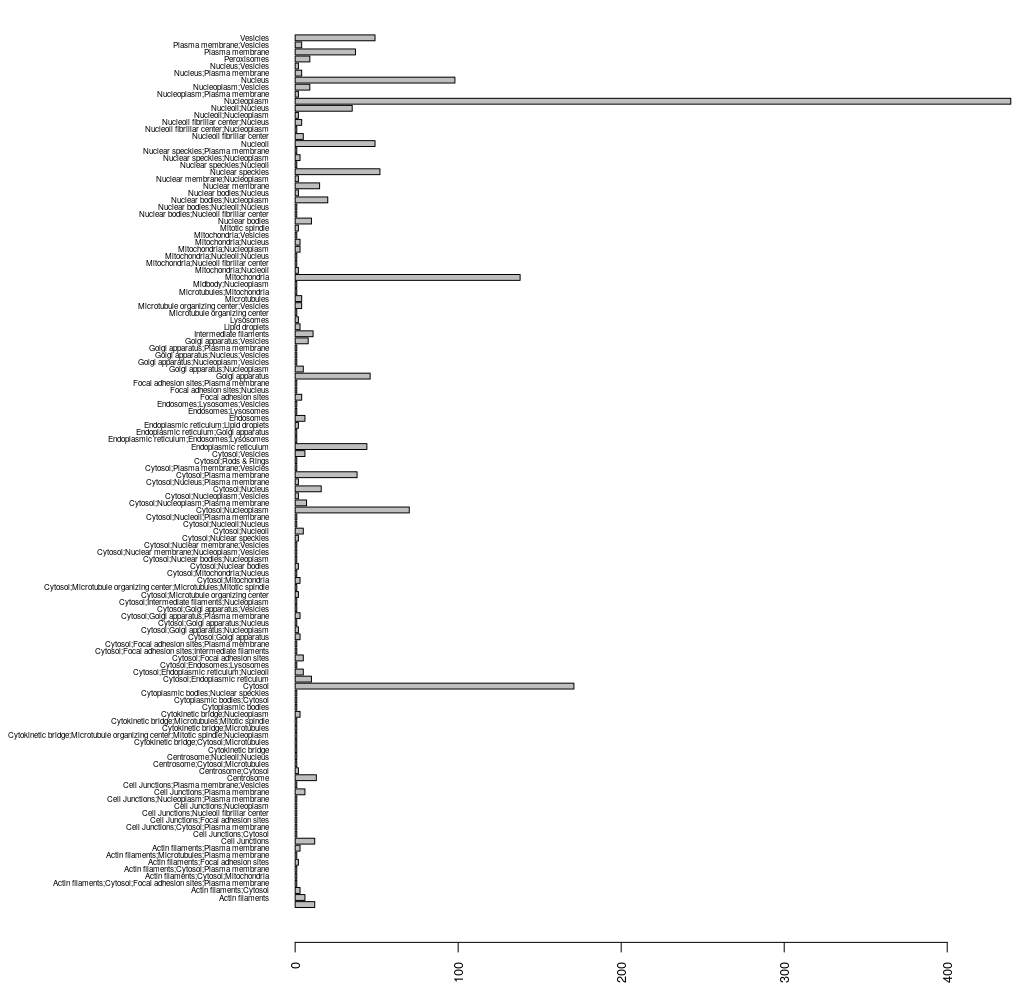
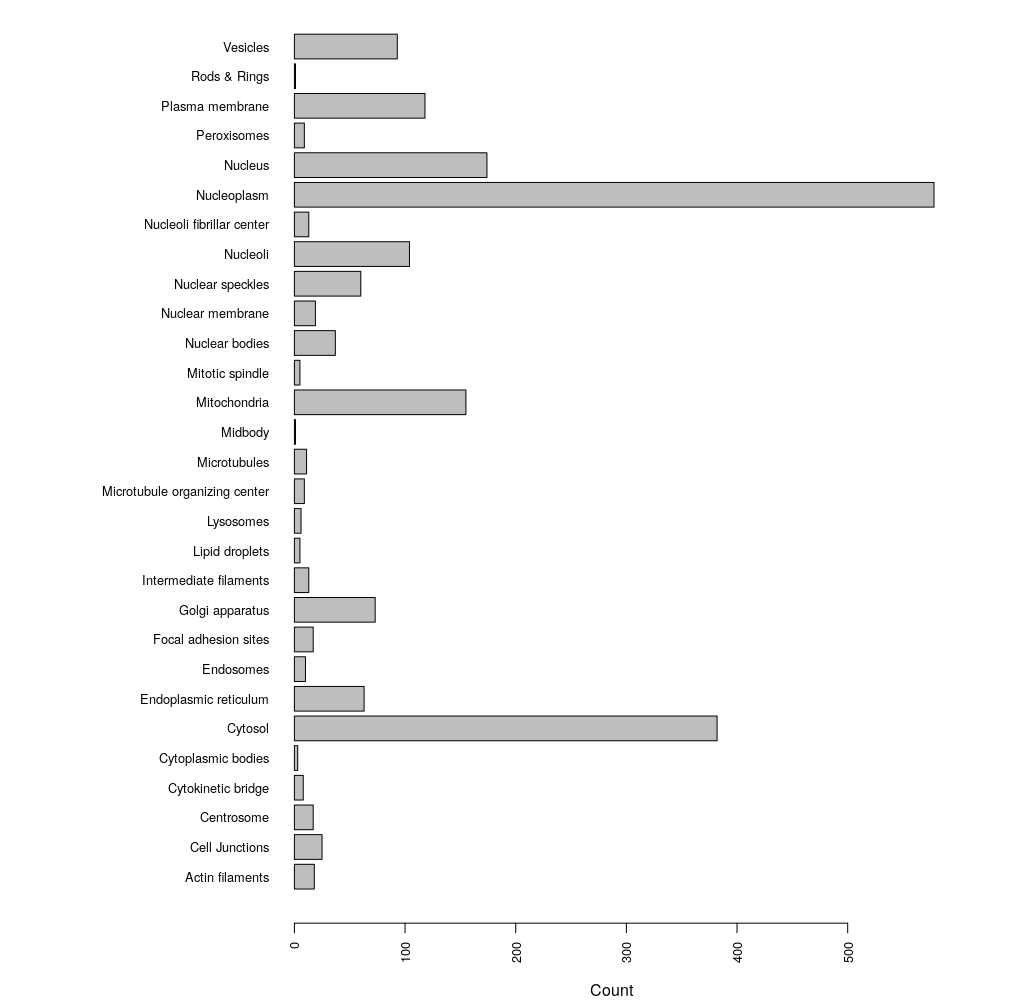
fixed first visualization

diff --git a/README.md b/README.md
@@ -56,6 +56,7 @@ To prepare for data analysis, download and extract [subcellular_location.tsv.zip
 7. **GO id**: gene ontology cellular component term identifier
 
 ## Read Sample HPA Data
+In scriptTemplate.R, there are defined functions to clean, parse, and map HPA data to other data sources. We will use parseHPAData() first that takes the filepath to the TSV file as well as an optional reliability argument as parameters. The reliability parameter filters the HPA dataset by the reliability category of interest. By default, it is set to "enhanced", with other options being "approved", "supported", and "uncertain".
 
 ```R
 source("./inst/scripts/scriptTemplate.R")
@@ -81,16 +82,22 @@ RBM5           RBM5               RBM5               3      NP_005769
 FKBP4         FKBP4              FKBP4              12      NP_002005
 KDM1A         KDM1A              KDM1A               1   NP_001350583
 ```
-Here, in addition to the parameters of the HPA TSV file, **hgnc_symbol external_gene_name chromosome_name refseq_peptide** were mapped the attributes in the ENSEMBL biomaRt. This is to resolve usage of withdrawn and obsolete gene names and IDs by the HPA database.
+Here, in addition to the parameters of the HPA TSV file, **hgnc_symbol external_gene_name chromosome_name refseq_peptide** were the mapped attributes in the ENSEMBL biomaRt for each ENSEMBL ID. This is to resolve usage of withdrawn and obsolete gene names and IDs in the HPA database.
 
 ## What are the most commonly annotated subcellular localization sites?
+Working with the parsed HPA dataset is straightforard now. One can subset, index, tabulate, etc. as one would with dataframes. Note, however, that the HPA dataset stores its data as factors.
 
 ```
-par(las=2)
-par(mar=c(3,15,0,1))
-barplot(table(enhanced$Enhanced), horiz = TRUE, cex.names = 0.5, cex.axis = 0.8)
+# break up grouped annotations to get unqiue counts
+loci <- unlist(strsplit(as.character(enhanced$Enhanced), ";"))
+
+par(las=2) #align bar labels horizonatally
+par(mar=c(4,15,0,1)) # set margins of the plot space
+barplot(table(loci), horiz = TRUE, cex.names = 0.8, cex.axis = 0.8)
 ```
 ![Localization Distribution](https://raw.githubusercontent.com/NElnour/capsule/master/inst/extdata/locDist.png)
+
+We can see that the most abundant localization annotation in our enhanced HPA dataset is the Nucleoplasm.
 ```
 # Visualize a gene's protein localization information
 whereIs("DVL2", enhanced)
